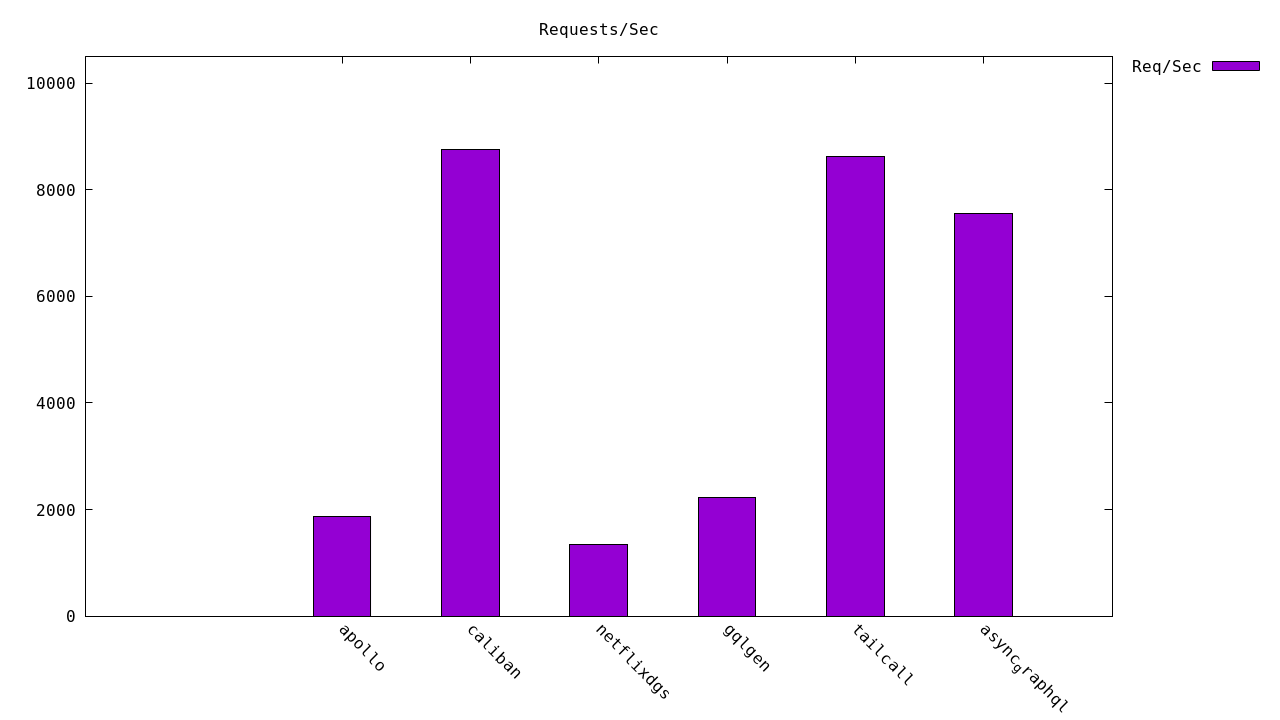
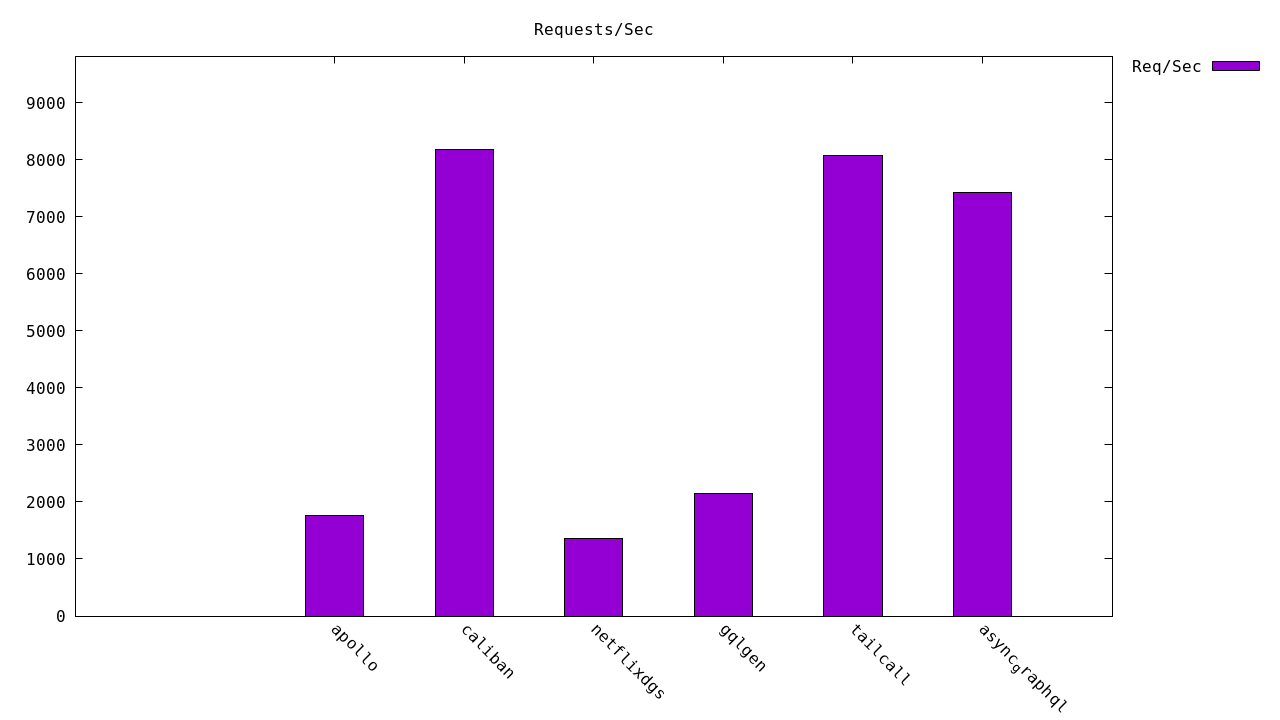
Update performance results in README.md

diff --git a/README.md b/README.md
@@ -48,12 +48,12 @@ Get started with the benchmarks:
 
 | Server | Requests/sec | Latency (ms) |
 |--------:|--------------:|--------------:|
-| [Caliban] | `8,755.15` | `11.42` |
-| [Tailcall] | `8,635.49` | `11.57` |
-| [async-graphql] | `7,550.69` | `13.22` |
-| [Gqlgen] | `2,225.71` | `46.42` |
-| [Apollo GraphQL] | `1,862.84` | `53.46` |
-| [Netflix DGS] | `1,335.65` | `80.01` |
+| [Caliban] | `8,177.72` | `12.21` |
+| [Tailcall] | `8,071.37` | `12.38` |
+| [async-graphql] | `7,422.02` | `13.45` |
+| [Gqlgen] | `2,149.86` | `48.14` |
+| [Apollo GraphQL] | `1,756.79` | `56.71` |
+| [Netflix DGS] | `1,350.23` | `78.28` |
 
 <!-- PERFORMANCE_RESULTS_END -->
 

diff --git a/results.md b/results.md
@@ -2,11 +2,11 @@
 
 | Server | Requests/sec | Latency (ms) |
 |--------:|--------------:|--------------:|
-| [Caliban] | `8,755.15` | `11.42` |
-| [Tailcall] | `8,635.49` | `11.57` |
-| [async-graphql] | `7,550.69` | `13.22` |
-| [Gqlgen] | `2,225.71` | `46.42` |
-| [Apollo GraphQL] | `1,862.84` | `53.46` |
-| [Netflix DGS] | `1,335.65` | `80.01` |
+| [Caliban] | `8,177.72` | `12.21` |
+| [Tailcall] | `8,071.37` | `12.38` |
+| [async-graphql] | `7,422.02` | `13.45` |
+| [Gqlgen] | `2,149.86` | `48.14` |
+| [Apollo GraphQL] | `1,756.79` | `56.71` |
+| [Netflix DGS] | `1,350.23` | `78.28` |
 
 <!-- PERFORMANCE_RESULTS_END -->
